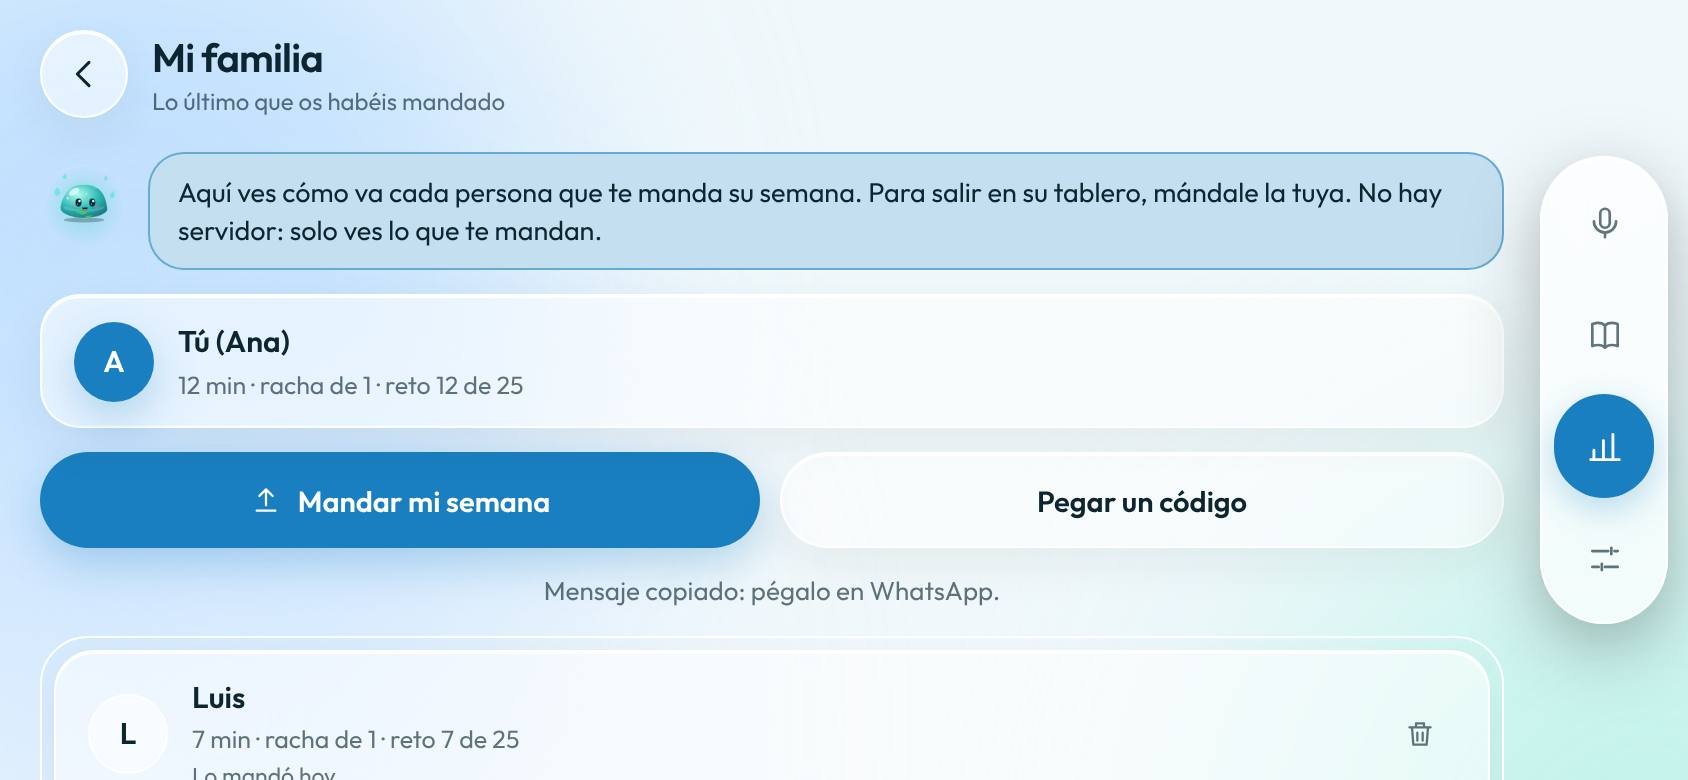
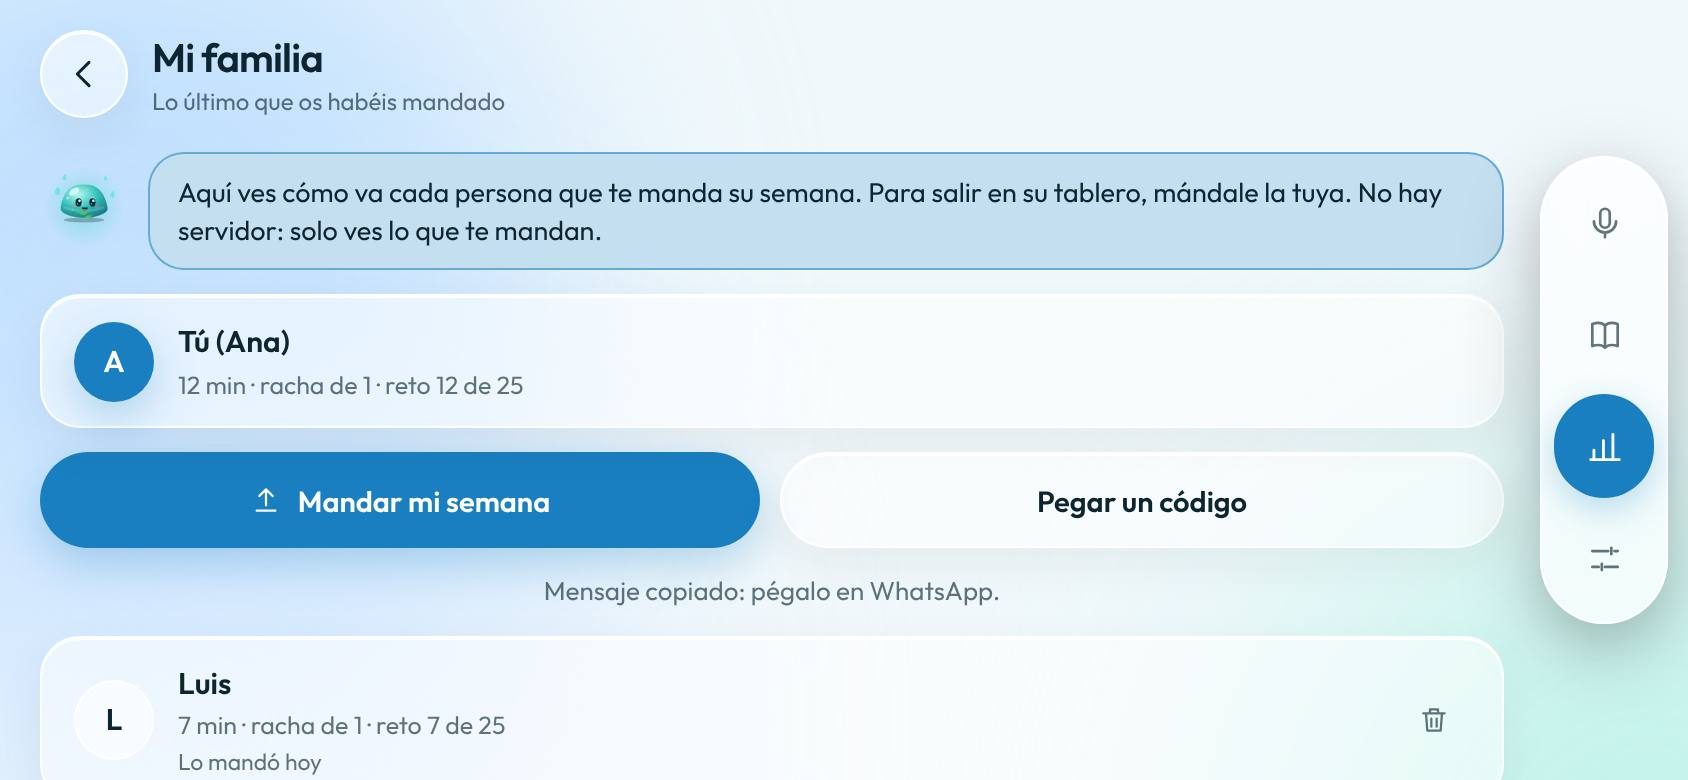
v5.13 fase 8: «Practicar lo mismo» — una Situación para los dos y comparar la nota
- shareCode.ts: código `practice` (solo una Situación de la lista, nunca texto libre:
  nada de otra persona entra en un prompt) y código `score` (nota 0–100 y objetivos
  cumplidos, con nombre), con sus mensajes para WhatsApp.
- shareApply.ts: los guarda en la fila de esa persona en «Mi familia» (una propuesta
  nueva no borra su nota); myPracticeScore lee tu última clase de esa Situación.
- Mi familia: «Proponer una práctica» y, en cada fila, su nota frente a la tuya con
  «Practicar»/«Otra vez» y «Mandar mi nota». Al pegar una práctica, «Practicar ahora»
  abre la Situación (sin clave, Ajustes, como el resto de clases).
- La lista de la familia ya no usa InfiniteList (es corta y dejaba un hueco); capturas
  de la Fase 7 al día.
- Tests: tests/practice-513.test.mjs; navegador con dos teléfonos
  docs/v5.13/evidencia/arnes-familia.mjs (+ arnes-practica.mjs).

Claude-Session: https://claude.ai/code/session_01NN4XbeQN4GtnfRf8dc6i8t

diff --git a/src/components/FamilyPractice.tsx b/src/components/FamilyPractice.tsx
@@ -1,0 +1,94 @@
+import { useEffect, useState } from 'react'
+import type { FamilyMember } from '../lib/db'
+import { findSituation, SITUATIONS } from '../lib/missions'
+import { myPracticeScore } from '../lib/shareApply'
+import { practiceMessage, scoreMessage } from '../lib/shareCode'
+import { shareMessage } from '../lib/shareText'
+import { Icon } from '../ui/icons'
+
+// 5.13 (Fase 8): «Practicar lo mismo» en «Mi familia»: una Situación de la lista que os proponéis por código y la nota de
+// cada uno. Solo Situaciones de la lista (nunca texto libre): nada de otra persona entra en un prompt.
+
+const told = (r: Awaited<ReturnType<typeof shareMessage>>) =>
+  r === 'copied' ? 'Mensaje copiado: pégalo en WhatsApp.' : r === 'failed' ? 'No he podido abrir Compartir.' : null
+
+/** Lo de la práctica en la fila de una persona: su nota frente a la tuya, «Practicar» o «Mandar mi nota». */
+export function PracticeRow({ m, name, onStart }: { m: FamilyMember; name: string; onStart?: (situationId: string) => void }) {
+  const p = m.practice
+  const s = p ? findSituation(p.situationId) : undefined
+  const [mine, setMine] = useState<{ score: number; goals: number; total: number } | null | undefined>(undefined)
+  const [note, setNote] = useState<string | null>(null)
+  useEffect(() => {
+    if (p) myPracticeScore(p.situationId).then(setMine, () => setMine(null))
+  }, [p])
+  if (!p || !s) return null
+  const theirs = typeof p.score === 'number' ? `${m.name}: ${p.score} (${p.goals ?? 0}/${p.total ?? 3})` : `${m.name}: aún sin nota`
+  const yours = mine ? `Tú: ${mine.score} (${mine.goals}/${mine.total})` : mine === null ? 'Tú: aún no la has hecho' : ''
+  const sendScore = async () => {
+    setNote(null)
+    if (!mine) return
+    if (!name.trim()) return setNote('Pon tu nombre en Ajustes → Mi perfil y datos: así saben de quién es.')
+    setNote(told(await shareMessage(scoreMessage({ type: 'score', from: name, situation: p.situationId, ...mine }), 'Mandar mi nota')))
+  }
+  return (
+    <div className="field flex flex-col gap-2 rounded-[16px] px-3 py-2.5" data-practice-row={p.situationId}>
+      <div className="fs-13.5 leading-snug">
+        <span aria-hidden>{s.emoji}</span> <b>{s.titleEs}</b>
+        <span className="txt-sub block fs-12.5">
+          {theirs}
+          {yours && ` · ${yours}`}
+        </span>
+      </div>
+      <div className="flex gap-2">
+        {onStart && (
+          <button onClick={() => onStart(p.situationId)} className="glass h-9 flex-1 rounded-full px-3 fs-13 font-semibold" data-practice-start>
+            {mine ? 'Otra vez' : 'Practicar'}
+          </button>
+        )}
+        {mine && (
+          <button onClick={sendScore} className="btn-acc flex h-9 flex-1 items-center justify-center gap-1.5 rounded-full px-3 fs-13" data-send-score>
+            <Icon name="upload" size={14} />
+            Mandar mi nota
+          </button>
+        )}
+      </div>
+      {note && <div className="txt-sub fs-12.5">{note}</div>}
+    </div>
+  )
+}
+
+/** «Proponer una práctica»: eliges una Situación de la lista y se manda como código. */
+export function ProposePractice({ name }: { name: string }) {
+  const [open, setOpen] = useState(false)
+  const [note, setNote] = useState<string | null>(null)
+  const propose = async (situation: string) => {
+    setNote(told(await shareMessage(practiceMessage({ type: 'practice', from: name.trim(), situation }), 'Proponer una práctica')))
+  }
+  return (
+    <div className="glass flex flex-col gap-2.5 rounded-[22px] px-4 py-3" data-propose>
+      <button onClick={() => setOpen((v) => !v)} className="flex items-center gap-3 text-left" aria-expanded={open}>
+        <span aria-hidden className="text-2xl">
+          🎭
+        </span>
+        <span className="min-w-0 flex-1">
+          <span className="block fs-15 font-semibold">Proponer una práctica</span>
+          <span className="txt-sub block fs-12.5">La misma Situación para los dos, y comparáis la nota</span>
+        </span>
+        <Icon name={open ? 'chevD' : 'chevR'} size={16} stroke={1.8} color="var(--sub)" />
+      </button>
+      {open && (
+        <div className="grid grid-cols-2 gap-2 [html[data-landscape]_&]:grid-cols-3">
+          {SITUATIONS.map((x) => (
+            <button key={x.id} onClick={() => propose(x.id)} className="field flex min-h-[46px] items-center gap-2 rounded-[18px] px-3 py-2 text-left fs-13 leading-tight" data-propose-item={x.id}>
+              <span aria-hidden className="flex-none fs-17">
+                {x.emoji}
+              </span>
+              <span className="min-w-0">{x.titleEs}</span>
+            </button>
+          ))}
+        </div>
+      )}
+      {note && <div className="txt-sub text-center fs-13">{note}</div>}
+    </div>
+  )
+}

diff --git a/src/lib/shareCode.ts b/src/lib/shareCode.ts
@@ -9,13 +9,14 @@
 // Importarlo no llama a la IA. Módulo puro (sin Dexie ni Capacitor): se prueba en Node (tests/codes-513.test.mjs).
 import { CHALLENGE_PRACTICES, clampTarget, isCleanCategory, localGoal, localTitle } from './challenge'
 import type { ChallengeKind, LookupResult, MistakeCategory, WeeklyChallenge } from './db'
+import { findSituation } from './missions'
 
 export const CODE_PREFIX = 'HABLA'
 export const CODE_VERSION = 1
 /** Tope del código entero (unos 2 KB): uno normal ocupa 300–700 caracteres. */
 export const MAX_CODE_CHARS = 2048
-export type CodeType = 'challenge' | 'progress' | 'word' | 'week'
-const TYPES: readonly CodeType[] = ['challenge', 'progress', 'word', 'week']
+export type CodeType = 'challenge' | 'progress' | 'word' | 'week' | 'practice' | 'score'
+const TYPES: readonly CodeType[] = ['challenge', 'progress', 'word', 'week', 'practice', 'score']
 const KINDS: readonly ChallengeKind[] = ['minutes', 'classes', 'clean', 'review']
 
 export interface ChallengeCode {
@@ -64,7 +65,27 @@ export interface WeekCode {
   challenge?: { title: string; progress: number; target: number; done: boolean }
 }
 
-export type ShareCode = ChallengeCode | ProgressCode | WordCode | WeekCode
+/**
+ * 5.13 (Fase 8): «Practicar lo mismo». Solo una Situación de la lista (missions.ts › SITUATIONS), nunca texto libre: así no
+ * entra nada de otra persona en un prompt.
+ */
+export interface PracticeCode {
+  type: 'practice'
+  from: string
+  situation: string
+}
+
+/** 5.13 (Fase 8): tu nota en esa Situación (0–100) y los objetivos cumplidos. Necesita nombre. */
+export interface ScoreCode {
+  type: 'score'
+  from: string
+  situation: string
+  score: number
+  goals: number
+  total: number
+}
+
+export type ShareCode = ChallengeCode | ProgressCode | WordCode | WeekCode | PracticeCode | ScoreCode
 
 // ---------------------------------------------------------------------------
 // Texto seguro
@@ -187,6 +208,16 @@ export function parsePayload(data: unknown): CodeCheck {
         partOfSpeech: safeText(d.partOfSpeech, 24),
       },
     }
+  }
+  if (d.t === 'practice' || d.t === 'score') {
+    const situation = typeof d.situation === 'string' && findSituation(d.situation) ? d.situation : null
+    if (!situation) return { ok: false, error: DAMAGED }
+    if (d.t === 'practice') return { ok: true, code: { type: 'practice', from, situation } }
+    const score = intIn(d.score, 0, 100)
+    const total = intIn(d.total, 1, 3)
+    const goals = intIn(d.goals, 0, 3)
+    if (!from || score === null || total === null || goals === null || goals > total) return { ok: false, error: DAMAGED }
+    return { ok: true, code: { type: 'score', from, situation, score, goals, total } }
   }
   if (d.t === 'week') {
     // Sin nombre no se sabe de quién es la fila del tablero.
@@ -331,6 +362,16 @@ export function progressMessage(c: ProgressCode): string {
 export function weekMessage(c: WeekCode): string {
   const reto = c.challenge ? (c.challenge.done ? ` y cumplí mi reto «${c.challenge.title}»` : `; reto «${c.challenge.title}»: ${c.challenge.progress} de ${c.challenge.target}`) : ''
   return `Mi semana en Habla: ${c.minutes} min hablando inglés, racha de ${c.streak} ${c.streak === 1 ? 'día' : 'días'}${reto}.\n${HOW}\n${encodeCode(c)}`
+}
+
+export function practiceMessage(c: PracticeCode): string {
+  const s = findSituation(c.situation)!
+  return `¿Practicamos lo mismo en Habla? «${s.titleEs}»: una Situación con 3 objetivos. Hazla y comparamos la nota.\n${HOW}\n${encodeCode(c)}`
+}
+
+export function scoreMessage(c: ScoreCode): string {
+  const s = findSituation(c.situation)!
+  return `Hice «${s.titleEs}» en Habla: ${c.score} puntos (${c.goals} de ${c.total} objetivos).\n${HOW}\n${encodeCode(c)}`
 }
 
 export function wordMessage(c: WordCode): string {

diff --git a/src/lib/shareApply.ts b/src/lib/shareApply.ts
@@ -4,6 +4,7 @@
 import { boundsOfKey, currentChallenge } from './challenge'
 import { db } from './db'
 import { challengeFromCode, lookupFromCode, sameChallenge, sharedContext, whoOf, type ShareCode } from './shareCode'
+import { findSituation } from './missions'
 import { syncCards } from './srs'
 import { weekKey } from './stats'
 
@@ -30,6 +31,24 @@ export async function previewCode(c: ShareCode, now = new Date()): Promise<CodeP
       title: `${who} te pasa una palabra`,
       text: `«${c.headword}» = ${c.translation}.${c.meaningEs ? ` ${c.meaningEs}` : ''} Se guardará en tus Palabras y entrará en tu Repaso.`,
       cta: 'Guardar en mis palabras',
+    }
+  }
+  if (c.type === 'practice' || c.type === 'score') {
+    const s = findSituation(c.situation)!
+    if (c.type === 'practice') {
+      return {
+        ok: true,
+        title: `${who} te propone practicar lo mismo`,
+        text: `«${s.titleEs}»: una Situación con 3 objetivos. Hazla tú también y comparad la nota en Mi familia${c.from ? '' : ' (el código no trae nombre: no saldrá en Mi familia)'}.`,
+        cta: 'Guardar y practicar',
+      }
+    }
+    const mine = await myPracticeScore(c.situation)
+    return {
+      ok: true,
+      title: `La nota de ${who}`,
+      text: `${who} sacó ${c.score} en «${s.titleEs}» (${c.goals} de ${c.total} objetivos). ${mine ? `Tú: ${mine.score} (${mine.goals} de ${mine.total}).` : 'Tú aún no la has hecho.'}`,
+      cta: 'Guardar en Mi familia',
     }
   }
   if (c.type === 'week') {
@@ -93,6 +112,20 @@ export async function applyCode(c: ShareCode, now = new Date()): Promise<string>
     await syncCards().catch(() => 0)
     return `«${c.headword}» ya está en tus Palabras y en tu Repaso.`
   }
+  if (c.type === 'practice' || c.type === 'score') {
+    const s = findSituation(c.situation)!
+    if (!c.from) return `¡A practicar «${s.titleEs}»!`
+    const id = memberId(c.from)
+    const prev = await db.family.get(id)
+    // Una propuesta nueva de la misma Situación no borra la nota que ya te mandó.
+    const keep = prev?.practice?.situationId === c.situation ? prev.practice : undefined
+    const practice =
+      c.type === 'practice'
+        ? { ...(keep ?? {}), situationId: c.situation, at: now.getTime() }
+        : { situationId: c.situation, at: now.getTime(), score: c.score, goals: c.goals, total: c.total }
+    await db.family.put({ ...(prev ?? {}), id, name: c.from, at: now.getTime(), practice })
+    return c.type === 'practice' ? `Guardado en Mi familia. ¡A practicar «${s.titleEs}»!` : `Guardado: la nota de ${c.from} está en Mi familia.`
+  }
   if (c.type === 'week') {
     const id = memberId(c.from)
     const prev = await db.family.get(id)
@@ -115,3 +148,11 @@ export async function applyCode(c: ShareCode, now = new Date()): Promise<string>
 
 /** 5.13 (Fase 7): clave de una persona en «Mi familia» (su nombre, sin mayúsculas ni espacios de más). */
 export const memberId = (name: string) => name.trim().toLowerCase().replace(/\s+/g, ' ')
+
+/** 5.13 (Fase 8): tu última clase terminada de esa Situación (nota, objetivos cumplidos y cuántos había), o null. */
+export async function myPracticeScore(situationId: string): Promise<{ score: number; goals: number; total: number } | null> {
+  const all = await db.sessions.where('scenario').equals('mission').toArray()
+  const last = all.filter((x) => x.mission?.situationId === situationId && x.metrics && x.metrics.turns > 0).sort((a, b) => b.startedAt - a.startedAt)[0]
+  if (!last?.metrics || !last.mission) return null
+  return { score: last.metrics.score, goals: last.mission.done.length, total: last.mission.goals.length || 3 }
+}

diff --git a/src/components/PasteCodeSheet.tsx b/src/components/PasteCodeSheet.tsx
@@ -12,7 +12,18 @@ import { THEME_INFO } from '../ui/theme'
  * cada tipo; al revisar, dice qué va a pasar y solo con «Aceptar» se guarda. Un código dañado, de otra versión o que no
  * encaja se explica en español y no se toca nada. Todo se pinta como texto (React), nunca como HTML.
  */
-export default function PasteCodeSheet({ settings, onClose, onApplied }: { settings: Settings; onClose: () => void; onApplied: () => void }) {
+export default function PasteCodeSheet({
+  settings,
+  onClose,
+  onApplied,
+  onStartSituation,
+}: {
+  settings: Settings
+  onClose: () => void
+  onApplied: () => void
+  /** 5.13 (Fase 8): tras pegar una práctica, «Practicar ahora». */
+  onStartSituation?: (situationId: string) => void
+}) {
   const info = THEME_INFO[settings.theme] ?? THEME_INFO.marea
   const [text, setText] = useState('')
   const [error, setError] = useState<string | null>(null)
@@ -99,7 +110,10 @@ export default function PasteCodeSheet({ settings, onClose, onApplied }: { setti
                   📖 <b>una palabra</b>: va a tus Palabras y a tu Repaso;
                 </span>
                 <span className="block">
-                  👨👩👧 <b>su semana</b>: sale en Mi familia.
+                  👨👩👧 <b>su semana</b> o <b>su nota</b> en una práctica: sale en Mi familia;
+                </span>
+                <span className="block">
+                  🎭 <b>una práctica</b>: la misma Situación para los dos.
                 </span>
                 <span className="mt-1.5 block">Pegar un código no gasta tu clave.</span>
               </>
@@ -158,8 +172,13 @@ export default function PasteCodeSheet({ settings, onClose, onApplied }: { setti
           </div>
         )}
 
+        {done && found?.code.type === 'practice' && onStartSituation && (
+          <button onClick={() => onStartSituation((found.code as { situation: string }).situation)} className="btn-acc h-12 rounded-full fs-15" data-practice-now>
+            Practicar ahora
+          </button>
+        )}
         {done && (
-          <button onClick={onClose} className="btn-acc h-12 rounded-full fs-15" autoFocus>
+          <button onClick={onClose} className={`${found?.code.type === 'practice' && onStartSituation ? 'glass font-semibold' : 'btn-acc'} h-12 rounded-full fs-15`} autoFocus>
             Hecho
           </button>
         )}

diff --git a/src/screens/ProgressScreen.tsx b/src/screens/ProgressScreen.tsx
@@ -6,6 +6,7 @@ import WeekCardSheet from '../components/WeekCardSheet'
 import PasteCodeSheet from '../components/PasteCodeSheet'
 import MessageSheet from '../components/MessageSheet'
 import FamilyView from '../components/FamilyView'
+import { PracticeRow, ProposePractice } from '../components/FamilyPractice'
 import { unitOf, weekLabel } from '../lib/challenge'
 import { progressMessage, progressToCode } from '../lib/shareCode'
 import { getProfile } from '../lib/profile'
@@ -45,6 +46,7 @@ export default function ProgressScreen({
   onReview,
   onStartHomework,
   initialPage,
+  onStartSituation,
 }: {
   settings: Settings
   /** 5.13 (P-17): colores del tema para la tarjeta de la semana. */
@@ -55,6 +57,8 @@ export default function ProgressScreen({
   onStartHomework?: (sessionId: number) => void
   /** 5.13 (P-14): abrir directamente el detalle del reto (desde el globo de la mascota o la celebración). */
   initialPage?: 'challenge' | null
+  /** 5.13 (Fase 8): «Practicar lo mismo»: empezar la Situación que os propusisteis. */
+  onStartSituation?: (situationId: string) => void
 }) {
   const [dash, setDash] = useState<Dashboard | null>(null)
   const [week, setWeek] = useState<number[]>([0, 0, 0, 0, 0, 0, 0])
@@ -158,6 +162,7 @@ export default function ProgressScreen({
   const pasteSheet = pasteOpen && (
     <PasteCodeSheet
       settings={settings}
+      onStartSituation={onStartSituation}
       onClose={() => setPasteOpen(false)}
       onApplied={() => {
         chal.reload()
@@ -182,7 +187,11 @@ export default function ProgressScreen({
           }}
           onBack={() => setFamilyOpen(false)}
           onPaste={() => setPasteOpen(true)}
-          extra={{ reloadKey: familyKey }}
+          extra={{
+            reloadKey: familyKey,
+            row: (m) => <PracticeRow m={m} name={name} onStart={onStartSituation} />,
+            footer: <ProposePractice name={name} />,
+          }}
         />
         {pasteSheet}
       </>

diff --git a/src/components/FamilyView.tsx b/src/components/FamilyView.tsx
@@ -7,7 +7,6 @@ import { weekKey } from '../lib/stats'
 import { Icon } from '../ui/icons'
 import Mascot from '../ui/Mascot'
 import { THEME_INFO } from '../ui/theme'
-import InfiniteList from './InfiniteList'
 
 /** Tu semana, para tu fila y para el código que mandas. */
 export interface MyWeek {
@@ -117,10 +116,10 @@ export default function FamilyView({
       {members && members.length === 0 && (
         <div className="glass txt-sub rounded-[22px] p-5 text-center text-sm">Aún no te ha mandado nadie su semana. Mándales la tuya y pídeles la suya.</div>
       )}
+      {/* Lista corta (la familia): sin InfiniteList, que reserva el alto de la pantalla y dejaría un hueco. */}
       {sorted.length > 0 && (
-        <InfiniteList
-          items={sorted}
-          render={(m) => (
+        <div className="flex flex-col gap-2">
+          {sorted.map((m) => (
             <div key={m.id} className="glass flex flex-col gap-1.5 rounded-[20px] px-4 py-3" data-family-row={m.name} style={current(m) ? undefined : { opacity: 0.75 }}>
               <div className="flex items-center gap-3">
                 <span className="field grid h-10 w-10 flex-none place-items-center rounded-full fs-15 font-semibold">{m.name[0]?.toUpperCase()}</span>
@@ -156,8 +155,8 @@ export default function FamilyView({
               </div>
               {extra?.row?.(m)}
             </div>
-          )}
-        />
+          ))}
+        </div>
       )}
       {extra?.footer}
     </div>

diff --git a/src/App.tsx b/src/App.tsx
@@ -771,6 +771,7 @@ export default function App() {
                 onReview={() => setReview(true)}
                 onStartHomework={(id) => (settings.geminiKey.trim() ? startHomework(id) : setTab('settings'))}
                 initialPage={progressPage}
+                onStartSituation={(id) => (settings.geminiKey.trim() ? start('mission', id) : setTab('settings'))}
               />
             )}
             {tab === 'settings' && (

diff --git a/docs/v5.13/PLAN.md b/docs/v5.13/PLAN.md
@@ -30,7 +30,7 @@ pareja, notas de voz entre dos, P-13, P-15 y P-16.
 | 5 | **Mensaje en inglés revisado por tu profe** (sirve con cualquiera, aunque no tenga Habla) | ✅ hecha (2026-11-05): `src/lib/messageReview.ts` (una llamada al modelo rápido; mensaje delimitado y con tope de 600; corregido con tus palabras, versión más natural solo si es distinta, hasta 3 notas; en español → al inglés), hoja `MessageSheet` con dictado (el micro se suelta al cerrar o en segundo plano) desde «Escribir en inglés» en Progreso; se manda por WhatsApp con lo que escribiste tú si quieres; nada se guarda. Test `tests/message-513.test.mjs`; navegador `evidencia/arnes-mensaje.mjs` (capturas en `evidencia/MENSAJE/`) |
 | 6 | **Aviso del reto a mitad de semana** (notificación local) | ✅ hecha (2026-11-05): `reminders.ts` › `challengeNudgePlan` (puro: jueves o, si ya pasó, sábado de esta semana a la hora del recordatorio; nada si está cumplido) y `syncChallengeNudge` (aviso propio, id 3; no pide permiso: usa el del recordatorio diario), reprogramado al medir el reto en el Inicio; ajuste `challengeNudge` activado por defecto con su interruptor en Ajustes → Meta diaria. Test `tests/nudge-513.test.mjs`; navegador `evidencia/arnes-aviso.mjs` (captura en `evidencia/AVISO/`). Que llegue de verdad: en el teléfono |
 | 7 | **Tablero «Mi familia»** (código `week` con minutos, racha y reto de cada uno) | ✅ hecha (2026-11-05): código `week` en `shareCode.ts` (necesita nombre; cifras en rango; reto bien formado), `shareApply.ts` (guarda o actualiza a la persona; un código de una semana anterior no pisa el más reciente), tabla `family` dentro de la v7 y en las copias (versión 5), `FamilyView` (tu fila, «Mandar mi semana», la fila de cada persona con lo último que mandó, semana anterior en gris, borrar) desde «Mi familia» en Progreso; «Pegar un código» explica el tipo nuevo. Test `tests/family-513.test.mjs`; navegador con dos teléfonos `evidencia/arnes-familia.mjs 7` (capturas en `evidencia/FAMILIA/`) |
-| 8 | **Practicar lo mismo** (una Situación compartida y comparar la nota) | pendiente |
+| 8 | **Practicar lo mismo** (una Situación compartida y comparar la nota) | ✅ hecha (2026-11-05): códigos `practice` (solo una Situación de la lista, nunca texto libre) y `score` (nota 0–100 y objetivos, con nombre) en `shareCode.ts`; `shareApply.ts` los guarda en la fila de esa persona y `myPracticeScore` lee tu última clase de esa Situación; en «Mi familia», «Proponer una práctica» (las 10 Situaciones) y, en cada fila, su nota frente a la tuya, «Practicar»/«Otra vez» y «Mandar mi nota»; al pegar una práctica, «Practicar ahora». La lista de la familia ya no usa `InfiniteList` (es corta y dejaba un hueco). Test `tests/practice-513.test.mjs`; navegador `evidencia/arnes-familia.mjs` + `arnes-practica.mjs` (capturas en `evidencia/FAMILIA/`) |
 | 9 | Entrega ampliada: Novedades, README, CLAUDE.md, pendientes del teléfono | pendiente |
 
 ### Fase 1 · P-14 Reto semanal
